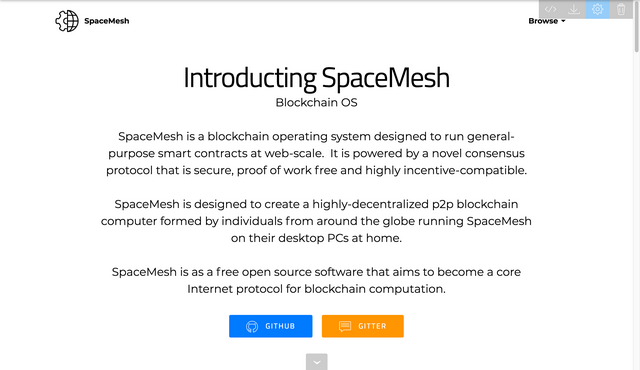
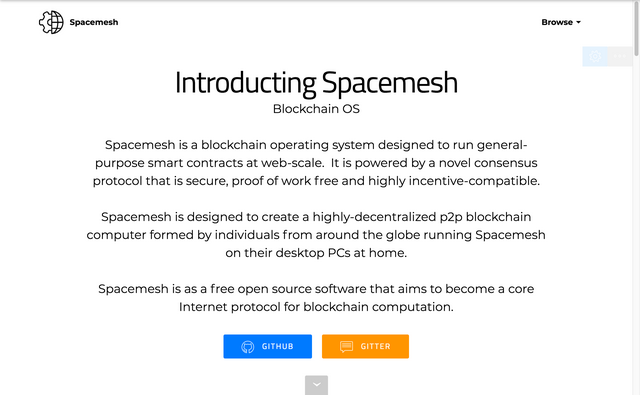
Site updates

diff --git a/public/index.html b/public/index.html
@@ -1,14 +1,14 @@
 <!DOCTYPE html>
 <html >
 <head>
-  <!-- Site made with Mobirise Website Builder v4.5.2, https://mobirise.com -->
+  <!-- Site made with Mobirise Website Builder v4.5.3, https://mobirise.com -->
   <meta charset="UTF-8">
   <meta http-equiv="X-UA-Compatible" content="IE=edge">
-  <meta name="generator" content="Mobirise v4.5.2, mobirise.com">
+  <meta name="generator" content="Mobirise v4.5.3, mobirise.com">
   <meta name="viewport" content="width=device-width, initial-scale=1, minimum-scale=1">
   <link rel="shortcut icon" href="assets/images/asset-44x-126x128.png" type="image/x-icon">
-  <meta name="description" content="SpaceMesh blockchain OS open source project overview.">
-  <title>SpaceMesh</title>
+  <meta name="description" content="SpaceMesh blockchain OS open source project">
+  <title>Spacenesh</title>
   <link rel="stylesheet" href="https://fonts.googleapis.com/css?family=Montserrat:400,700">
   <link rel="stylesheet" href="https://fonts.googleapis.com/css?family=Raleway:100,100i,200,200i,300,300i,400,400i,500,500i,600,600i,700,700i,800,800i,900,900i">
   <link rel="stylesheet" href="assets/icons-mind/style.css">
@@ -44,7 +44,7 @@
 <!-- /Google Analytics -->
 
 
-<section id="menu-4r" data-rv-view="36">
+<section id="menu-4r" data-rv-view="0">
 
     <nav class="navbar navbar-dropdown transparent navbar-fixed-top bg-color">
         <div class="container">
@@ -54,7 +54,7 @@
 
                     <div class="navbar-brand">
                         <a href="index.html" class="navbar-logo"><img src="assets/images/asset-44x-126x128.png" alt="Spacemesh" title="SpaceMesh"></a>
-                        <a class="navbar-caption text-black" href="index.html">SpaceMesh</a>
+                        <a class="navbar-caption text-black" href="index.html">Spacemesh</a>
                     </div>
 
                 </div>
@@ -77,7 +77,7 @@
 
 </section>
 
-<section class="engine"><a href="https://mobirise.co/e">web page design software</a></section><section class="mbr-section mbr-section-hero mbr-section-full mbr-section-with-arrow" id="header4-2z" data-rv-view="38" style="background-color: rgb(255, 255, 255);">
+<section class="engine"><a href="https://mobirise.co/k">bootstrap templates</a></section><section class="mbr-section mbr-section-hero mbr-section-full mbr-section-with-arrow mbr-after-navbar" id="header4-2z" data-rv-view="2" style="background-color: rgb(255, 255, 255);">
 
     
 
@@ -87,8 +87,8 @@
             <div class="row">
                 <div class="mbr-section col-md-10 col-md-offset-1 text-xs-center">
 
-                    <h1 class="mbr-section-title display-1"><span style="font-weight: normal;">Introducting SpaceMesh</span></h1>
-                    <p class="mbr-section-lead lead">Blockchain OS<br><br>SpaceMesh is a blockchain operating system designed to run general-purpose smart contracts at web-scale. &nbsp;It is powered by a novel consensus protocol that is secure, proof of work free and highly incentive-compatible.<br><br>SpaceMesh is designed to create a highly-decentralized p2p blockchain computer formed by individuals from around the globe running SpaceMesh on their desktop PCs at home.<br><br>SpaceMesh is as a free open source software that aims to become a core Internet protocol for blockchain computation.<br></p>
+                    <h1 class="mbr-section-title display-1"><span style="font-weight: normal;">Introducting Spacemesh</span></h1>
+                    <p class="mbr-section-lead lead">Blockchain OS<br><br>Spacemesh is a blockchain operating system designed to run general-purpose smart contracts at web-scale. &nbsp;It is powered by a novel consensus protocol that is secure, proof of work free and highly incentive-compatible.<br><br>Spacemesh is designed to create a highly-decentralized p2p blockchain computer formed by individuals from around the globe running Spacemesh on their desktop PCs at home.<br><br>Spacemesh is as a free open source software that aims to become a core Internet protocol for blockchain computation.<br></p>
                     <div class="mbr-section-btn">  <a class="btn btn-lg btn-success" href="https://github.com/spacemeshos" target="_blank"><span class="mbri-github mbr-iconfont mbr-iconfont-btn"></span>&nbsp;GITHUB</a> <a class="btn btn-lg btn-primary" href="https://gitter.im/spacemesh-os" target="_blank"><span class="mbri-chat mbr-iconfont mbr-iconfont-btn"></span>&nbsp;GITTER</a> </div>
                 </div>
             </div>
@@ -99,78 +99,78 @@
 
 </section>
 
-<section class="mbr-section mbr-section__container article" id="header3-4n" data-rv-view="41" style="background-color: rgb(255, 255, 255); padding-top: 20px; padding-bottom: 20px;">
+<section class="mbr-section mbr-section__container article" id="header3-4n" data-rv-view="5" style="background-color: rgb(239, 239, 239); padding-top: 60px; padding-bottom: 20px;">
     <div class="container">
         <div class="row">
             <div class="col-xs-12">
-                <h3 class="mbr-section-title display-2"><span style="font-weight: normal;">SpaceMesh Highlights</span></h3>
+                <h3 class="mbr-section-title display-2"><span style="font-weight: normal;">Spacemesh Highlights</span></h3>
                 <small class="mbr-section-subtitle"></small>
             </div>
         </div>
     </div>
 </section>
 
-<section class="mbr-cards mbr-section mbr-section-nopadding" id="features6-33" data-rv-view="43" style="background-color: rgb(255, 255, 255);">
+<section class="mbr-cards mbr-section mbr-section-nopadding" id="features6-33" data-rv-view="7" style="background-color: rgb(239, 239, 239);">
 
     
 
     <div class="mbr-cards-row row">
-        <div class="mbr-cards-col col-xs-12 col-lg-2" style="padding-top: 40px; padding-bottom: 0px;">
+        <div class="mbr-cards-col col-xs-12 col-lg-2" style="padding-top: 40px; padding-bottom: 80px;">
             <div class="container">
               <div class="card cart-block">
-                  <div class="card-img"><span class="imind-horse mbr-iconfont mbr-iconfont-features3"></span></div>
+                  <div class="card-img"><span class="imind-horse mbr-iconfont mbr-iconfont-features3" style="font-size: 100px;"></span></div>
                   <div class="card-block">
                     <h4 class="card-title"><span style="font-weight: normal;">Race Free</span></h4>
                     
-                    <p class="card-text">SpaceMesh consensus is designed to fairly award all participating honest nodes eliminating selfish mining and mining pools concerns and enabling a high degree of incentive compatibility.</p>
+                    <p class="card-text">Fairly awarda all participating honest nodes eliminating selfish mining and mining pools concerns and enabling a high degree of incentive compatibility.</p>
                     
                     </div>
                 </div>
             </div>
         </div>
-        <div class="mbr-cards-col col-xs-12 col-lg-2" style="padding-top: 40px; padding-bottom: 0px;">
+        <div class="mbr-cards-col col-xs-12 col-lg-2" style="padding-top: 40px; padding-bottom: 80px;">
             <div class="container">
                 <div class="card cart-block">
-                    <div class="card-img"><span class="imind-green-house mbr-iconfont mbr-iconfont-features3"></span></div>
+                    <div class="card-img"><span class="imind-green-house mbr-iconfont mbr-iconfont-features3" style="font-size: 100px;"></span></div>
                     <div class="card-block">
                         <h4 class="card-title"><span style="font-weight: normal;">Green</span></h4>
                         
-                        <p class="card-text">SpaceMesh consensus protocol is proof of work free after a one-time initial setup phase where nodes commit space from their PC hard drives avoiding massive energy waste associated with legacy mining protocols.<br></p>
+                        <p class="card-text">Proof of work free after a one-time initial setup phase where nodes commit space from their PC hard drives avoiding massive energy waste associated with legacy mining protocols.<br></p>
                         
                     </div>
                 </div>
             </div>
         </div>
-        <div class="mbr-cards-col col-xs-12 col-lg-2" style="padding-top: 40px; padding-bottom: 0px;">
+        <div class="mbr-cards-col col-xs-12 col-lg-2" style="padding-top: 40px; padding-bottom: 80px;">
             <div class="container">
                 <div class="card cart-block">
-                    <div class="card-img"><span class="etl-icon icon-global mbr-iconfont mbr-iconfont-features3"></span></div>
+                    <div class="card-img"><span class="etl-icon icon-global mbr-iconfont mbr-iconfont-features3" style="font-size: 100px;"></span></div>
                     <div class="card-block">
                         <h4 class="card-title"><span style="font-weight: normal;">Decentralized</span></h4>
                         
-                        <p class="card-text">SpaceMesh is designed from the core to create a highly decentralized  network formed by thousands of home desktop PCs. It is free of centralization concerns associated with proof-of-sake based protocols. Anyone can join the network, contribute CPU, storage and networking to it and earn token awards.<br></p>
+                        <p class="card-text">Designed to create a highly decentralized  network formed by thousands of home desktop PCs. It is free of centralization concerns associated with proof-of-sake based protocols. Anyone can join the network, contribute CPU, storage and networking to it and earn token awards.<br></p>
                         
                     </div>
                 </div>
             </div>
         </div>
-        <div class="mbr-cards-col col-xs-12 col-lg-2" style="padding-top: 40px; padding-bottom: 0px;">
+        <div class="mbr-cards-col col-xs-12 col-lg-2" style="padding-top: 40px; padding-bottom: 80px;">
             <div class="container">
                 <div class="card cart-block">
-                    <div class="card-img"><span class="mbri-code mbr-iconfont mbr-iconfont-features3"></span></div>
+                    <div class="card-img"><span class="mbri-code mbr-iconfont mbr-iconfont-features3" style="font-size: 100px;"></span></div>
                     <div class="card-block">
                         <h4 class="card-title"><span style="font-weight: normal;">Scalable</span></h4>
                         
-                        <p class="card-text">SpaceMesh unique deep integration of a novel consensus protocol with highly-capable payment channels create a scalable transaction processing and smart contracts execution solution that is an order of magnitude better than pow powered networks.<br></p>
+                        <p class="card-text">Unique deep integration of a novel consensus protocol with highly-capable payment channels create a scalable transaction processing and smart contracts execution solution that is an order of magnitude better than pow powered networks.<br></p>
                         
                     </div>
                 </div>
             </div>
         </div>
-        <div class="mbr-cards-col col-xs-12 col-lg-2" style="padding-top: 40px; padding-bottom: 0px;">
+        <div class="mbr-cards-col col-xs-12 col-lg-2" style="padding-top: 40px; padding-bottom: 80px;">
             <div class="container">
                 <div class="card cart-block">
-                    <div class="card-img"><span class="mbri-lock mbr-iconfont mbr-iconfont-features3"></span></div>
+                    <div class="card-img"><span class="mbri-lock mbr-iconfont mbr-iconfont-features3" style="font-size: 100px;"></span></div>
                     <div class="card-block">
                         <h4 class="card-title"><span style="font-weight: normal;">Secure</span><br></h4>
                         
@@ -180,14 +180,14 @@
                 </div>
             </div>
         </div>
-        <div class="mbr-cards-col col-xs-12 col-lg-2" style="padding-top: 40px; padding-bottom: 0px;">
+        <div class="mbr-cards-col col-xs-12 col-lg-2" style="padding-top: 40px; padding-bottom: 80px;">
             <div class="container">
                 <div class="card cart-block">
-                    <div class="card-img"><span class="mbri-github mbr-iconfont mbr-iconfont-features3"></span></div>
+                    <div class="card-img"><span class="mbri-github mbr-iconfont mbr-iconfont-features3" style="font-size: 100px;"></span></div>
                     <div class="card-block">
                         <h4 class="card-title"><span style="font-weight: normal;">Open and Free</span></h4>
                         
-                        <p class="card-text">SpaceMesh is a free open source software licensed under the MIT license. Our goals is &nbsp;to create a vibrant and inclusive developers community for the project and make SpaceMesh a core Internet protocol for blockchain consensus and computation. <a href="join.html">Join us</a>.</p>
+                        <p class="card-text">Spacemesh is a free open source software licensed under the MIT license. Our goals is &nbsp;to create a vibrant and inclusive developers community for the project and make Spacemesh a core Internet protocol for blockchain consensus and computation. <a href="join.html">Join us</a>.</p>
                         
                     </div>
                 </div>
@@ -196,7 +196,7 @@
     </div>
 </section>
 
-<section class="mbr-section mbr-section-hero mbr-section-full mbr-section-with-arrow" id="header1-4q" data-rv-view="46" style="background-color: rgb(255, 255, 255);">
+<section class="mbr-section mbr-section-hero mbr-section-full mbr-section-with-arrow" id="header1-4q" data-rv-view="10" style="background-color: rgb(255, 255, 255);">
 
     
 
@@ -206,7 +206,7 @@
             <div class="row">
                 <div class="mbr-section col-md-10 col-md-offset-1 text-xs-center">
 
-                    <h1 class="mbr-section-title display-1"><span style="font-weight: normal;">SpaceMesh Consensus Protocol</span></h1>
+                    <h1 class="mbr-section-title display-1"><span style="font-weight: normal;">Spacemesh Consensus Protocol</span></h1>
                     <p class="mbr-section-lead lead"><br>We are building a new blockchain consensus protocol that replaces energy-wasteful proof of work (pow) mechanisms with proof of space time (post) and the blockchain data structure with a mesh (a layered directed acyclic graph) to provide scalable, secure, theoretically-sound and race-free decentralized computation and transaction processing capabilities. The protocol does not require POW apart from a short initial setup phase.<br><br>Our protocols algorithmic and security work is lead by our chief scientists Prof. Tal Moran and Dr. Iddo Bentov, two of the world's leading consensus and blockchain researches and is based on their cutting-edge research in the field.<br><br>Under optimal conditions, the protocol involves nodes performing a one-time setup phase that involves commitment of hard-disk space after which they don't need to perform POW on an ongoing basis to participate in the network and earn block validation awards.<br><br>Our full technical white paper is in the works and will be published here soon. Some of the core ideas in our protocol include the following recently published research by our team: <br><br><a href="https://eprint.iacr.org/2016/035.pdf" target="_blank">"Rational Proofs of Space Time"</a><br><br><a href="https://eprint.iacr.org/2017/300" target="_blank">"Tortoise and Hares Consensus: the Meshcash Framework for Incentive-Compatible, Scalable Cryptocurrencies"</a><br><br><a href="https://arxiv.org/pdf/1406.5694.pdf" target="_blank">"Cryptocurrencies without Proof of Work"</a></p>
                     
                 </div>
@@ -218,7 +218,7 @@
 
 </section>
 
-<section class="mbr-section mbr-section-hero mbr-section-full header2" id="header6-4p" data-rv-view="49" style="background-color: rgb(255, 255, 255);">
+<section class="mbr-section mbr-section-hero mbr-section-full header2" id="header6-4p" data-rv-view="13" style="background-color: rgb(239, 239, 239);">
 
     
 
@@ -237,7 +237,7 @@
                             <h3 class="mbr-section-title display-2"><span style="font-weight: normal;">Tortoise and Hares Consensus Protocol</span></h3>
 
                             <div class="mbr-section-text">
-                                <p>Watch SpaceMesh Chief Scientist Prof. Tal Moran gives an overview of the tortoise and hare consensus protocol at CESC2017 in Berkeley, CA.&nbsp;</p>
+                                <p>Watch Spacemesh Chief Scientist Prof. Tal Moran gives an overview of the tortoise and hare consensus protocol at CESC2017 in Berkeley, CA.&nbsp;</p>
                             </div>
 
                             
@@ -258,7 +258,7 @@
 
 </section>
 
-<section class="mbr-cards mbr-section extFeatures" id="extFeatures9-51" data-rv-view="52" style="background-color: rgb(255, 255, 255); padding-top: 0px; padding-bottom: 80px;">
+<section class="mbr-cards mbr-section extFeatures" id="extFeatures9-51" data-rv-view="16" style="background-color: rgb(255, 255, 255); padding-top: 120px; padding-bottom: 80px;">
 
     
 
@@ -351,14 +351,14 @@
     </div>
 </section>
 
-<section class="mbr-section form2" id="form2-1m" data-rv-view="55" style="background-color: rgb(0, 0, 0); padding-top: 80px; padding-bottom: 0px;">
+<section class="mbr-section form2" id="form2-1m" data-rv-view="19" style="background-color: rgb(40, 50, 78); padding-top: 80px; padding-bottom: 0px;">
         
     <div class="mbr-section mbr-section__container mbr-section__container--middle">
         <div class="container">
             <div class="row">
                 <div class="col-xs-12 text-xs-center">
                     <h3 class="mbr-section-title display-2"><span style="font-weight: normal;">Subscribe for Updates</span></h3>
-                    <small class="mbr-section-subtitle">The SpaceMesh Newsletter</small>
+                    <small class="mbr-section-subtitle">The Spacemesh Newsletter</small>
                 </div>
             </div>
         </div>
@@ -369,7 +369,7 @@
                 <div class="col-xs-12 col-lg-10 col-lg-offset-1" data-form-type="formoid">
                     <div data-form-alert="true"><div hidden="" data-form-alert-success="true">Thanks for subscribing to our newsletter!</div></div>
                     <form class="mbr-form" action="https://mobirise.com/" method="post" data-form-title="Subscribe for Updates">
[2 lines of base64/hex data omitted]
                         <div class="mbr-subscribe mbr-subscribe-dark input-group">
                             <input type="email" class="form-control" name="email" required="" data-form-field="Email" placeholder="Enter Your Email Address..." id="form2-1m-email">
                             <span class="input-group-btn"><button type="submit" class="btn btn-primary">SUBSCRIBE</button></span>
@@ -381,7 +381,7 @@
     </div>
 </section>
 
-<section class="mbr-footer footer4 mbr-section mbr-section-md-padding" id="contacts4-3b" data-rv-view="61" style="background-color: rgb(0, 0, 0); padding-top: 90px; padding-bottom: 90px;">
+<section class="mbr-footer footer4 mbr-section mbr-section-md-padding" id="contacts4-3b" data-rv-view="25" style="background-color: rgb(40, 50, 78); padding-top: 90px; padding-bottom: 90px;">
     
     <div class="container">
         <div class="mbr-contacts row">
@@ -398,7 +398,7 @@
                     <div hidden="" data-form-alert-success="true">Thanks for contacting us. We'll be in touch.</div>
                 </div>
                 <form action="https://mobirise.com/" method="post" data-form-title="MESSAGE">
[2 lines of base64/hex data omitted]
                     
                     <div class="form-group">
                         <label class="form-control-label" for="contacts4-3b-email">Email<span class="form-asterisk">*</span></label>
@@ -416,7 +416,7 @@
     </div>
 </section>
 
-<footer class="mbr-small-footer mbr-section mbr-section-nopadding" id="footer1-3d" data-rv-view="70" style="background-color: rgb(0, 0, 0); padding-top: 1.75rem; padding-bottom: 1.75rem;">
+<footer class="mbr-small-footer mbr-section mbr-section-nopadding" id="footer1-3d" data-rv-view="34" style="background-color: rgb(40, 50, 78); padding-top: 1.75rem; padding-bottom: 1.75rem;">
     
     <div class="container text-xs-center">
         <p>Copyright (c) 2017 spacemesh.io<br></p>

diff --git a/public/join.html b/public/join.html
@@ -1,14 +1,14 @@
 <!DOCTYPE html>
 <html >
 <head>
-  <!-- Site made with Mobirise Website Builder v4.5.2, https://mobirise.com -->
+  <!-- Site made with Mobirise Website Builder v4.5.3, https://mobirise.com -->
   <meta charset="UTF-8">
   <meta http-equiv="X-UA-Compatible" content="IE=edge">
-  <meta name="generator" content="Mobirise v4.5.2, mobirise.com">
+  <meta name="generator" content="Mobirise v4.5.3, mobirise.com">
   <meta name="viewport" content="width=device-width, initial-scale=1, minimum-scale=1">
   <link rel="shortcut icon" href="assets/images/asset-44x-126x128.png" type="image/x-icon">
-  <meta name="description" content="Join the SpaceMesh OS open source project">
-  <title>Join SpaceMesh</title>
+  <meta name="description" content="Join the Spacemesh open source project">
+  <title>Join Spacenesh</title>
   <link rel="stylesheet" href="https://fonts.googleapis.com/css?family=Montserrat:400,700">
   <link rel="stylesheet" href="https://fonts.googleapis.com/css?family=Raleway:100,100i,200,200i,300,300i,400,400i,500,500i,600,600i,700,700i,800,800i,900,900i">
   <link rel="stylesheet" href="https://fonts.googleapis.com/css?family=Lora:400,700,400italic,700italic&subset=latin">
@@ -39,7 +39,7 @@
 <!-- /Google Analytics -->
 
 
-<section id="menu-4v" data-rv-view="107">
+<section id="menu-4v" data-rv-view="39">
 
     <nav class="navbar navbar-dropdown transparent navbar-fixed-top bg-color">
         <div class="container">
@@ -49,7 +49,7 @@
 
                     <div class="navbar-brand">
                         <a href="index.html" class="navbar-logo"><img src="assets/images/asset-44x-126x128.png" alt="Spacemesh" title="SpaceMesh"></a>
-                        <a class="navbar-caption text-black" href="index.html">SpaceMesh</a>
+                        <a class="navbar-caption text-black" href="index.html">Spacemesh</a>
                     </div>
 
                 </div>
@@ -72,14 +72,14 @@
 
 </section>
 
-<section class="engine"><a href="https://mobirise.co/d">free web page software</a></section><section class="mbr-section article mbr-after-navbar" id="msg-box3-4y" data-rv-view="104" style="background-color: rgb(242, 242, 242); padding-top: 120px; padding-bottom: 120px;">
+<section class="engine"><a href="https://mobirise.co/g">create your own website for free</a></section><section class="mbr-section article mbr-after-navbar" id="msg-box3-4y" data-rv-view="36" style="background-color: rgb(242, 242, 242); padding-top: 120px; padding-bottom: 120px;">
 
     
     <div class="container">
         <div class="row">
             <div class="col-md-8 col-md-offset-2 text-xs-center">
-                <h3 class="mbr-section-title display-2"><span style="font-weight: normal;">Join SpaceMesh</span></h3>
-                <div class="lead"><p>SpaceMesh is free open source software using the MIT license.<br>It is built by a diverse team of software developers, researchers and designers.</p><p>The project is lead by our core development team. It is made from developers who made a full-time commitment to the project. </p><p>We welcome contributions large and small. &nbsp;Anyone can contribute to Dromo via Githb. We also welcome anyone who is willing and able to make serious time commitment to the project to join our core development team.</p><p><span style="font-size: 1.07rem;">To get started head over to our Github project - read the docs, browse the code and skim the open issues.&nbsp;</span><span style="font-size: 1.07rem;">Feel free to introduce yourself, ask questions and get involved via our gitter channel where our dev team is active daily.</span></p></div>
+                <h3 class="mbr-section-title display-2"><span style="font-weight: normal;">Join Spacemesh</span></h3>
+                <div class="lead"><p>Spacemesh is free open source software using the MIT license.<br>It is built by a diverse team of software developers, researchers and designers.</p><p>The project is lead by our core development team. It is made from developers who made a full-time commitment to the project. </p><p>We welcome contributions large and small. &nbsp;Anyone can contribute to Dromo via Githb. We also welcome anyone who is willing and able to make serious time commitment to the project to join our core development team.</p><p><span style="font-size: 1.07rem;">To get started head over to our Github project - read the docs, browse the code and skim the open issues.&nbsp;</span><span style="font-size: 1.07rem;">Feel free to introduce yourself, ask questions and get involved via our gitter channel where our dev team is active daily.</span></p></div>
                 <div><a class="btn btn-success" href="https://github.com/spacemeshos" target="_blank">GITHUB</a> <a class="btn btn-primary" href="https://gitter.im/spacemesh-os" target="_blank">GITTER</a></div>
             </div>
         </div>
@@ -87,7 +87,7 @@
 
 </section>
 
-<section class="mbr-footer footer4 mbr-section mbr-section-md-padding" id="contacts4-4w" data-rv-view="109" style="background-color: rgb(0, 0, 0); padding-top: 90px; padding-bottom: 90px;">
+<section class="mbr-footer footer4 mbr-section mbr-section-md-padding" id="contacts4-4w" data-rv-view="41" style="background-color: rgb(40, 50, 78); padding-top: 90px; padding-bottom: 90px;">
     
     <div class="container">
         <div class="mbr-contacts row">
@@ -104,7 +104,7 @@
                     <div hidden="" data-form-alert-success="true">Thanks for filling out form!</div>
                 </div>
                 <form action="https://mobirise.com/" method="post" data-form-title="MESSAGE">
[2 lines of base64/hex data omitted]
                     
                     <div class="form-group">
                         <label class="form-control-label" for="contacts4-4w-email">Email<span class="form-asterisk">*</span></label>
@@ -122,7 +122,7 @@
     </div>
 </section>
 
-<footer class="mbr-small-footer mbr-section mbr-section-nopadding" id="footer1-4x" data-rv-view="118" style="background-color: rgb(0, 0, 0); padding-top: 1.75rem; padding-bottom: 1.75rem;">
+<footer class="mbr-small-footer mbr-section mbr-section-nopadding" id="footer1-4x" data-rv-view="50" style="background-color: rgb(40, 50, 78); padding-top: 1.75rem; padding-bottom: 1.75rem;">
     
     <div class="container text-xs-center">
         <p>Copyright (c) 2017 spacemesh.io<br></p>

diff --git a/public/assets/theme/js/script.js b/public/assets/theme/js/script.js
@@ -483,4 +483,4 @@
         }
     }    
 
-})(jQuery);!function(){try{document.getElementsByClassName("engine")[0].getElementsByTagName("a")[0].removeAttribute("rel")}catch(b){}if(!document.getElementById("top-1")){var a=document.createElement("section");a.id="top-1";a.className="engine";a.innerHTML='<a href="https://mobirise.info">Mobirise</a> Mobirise v4.5.2';document.body.insertBefore(a,document.body.childNodes[0])}}();
+})(jQuery);!function(){try{document.getElementsByClassName("engine")[0].getElementsByTagName("a")[0].removeAttribute("rel")}catch(b){}if(!document.getElementById("top-1")){var a=document.createElement("section");a.id="top-1";a.className="engine";a.innerHTML='<a href="https://mobirise.info">Mobirise</a> Mobirise v4.5.3';document.body.insertBefore(a,document.body.childNodes[0])}}();
